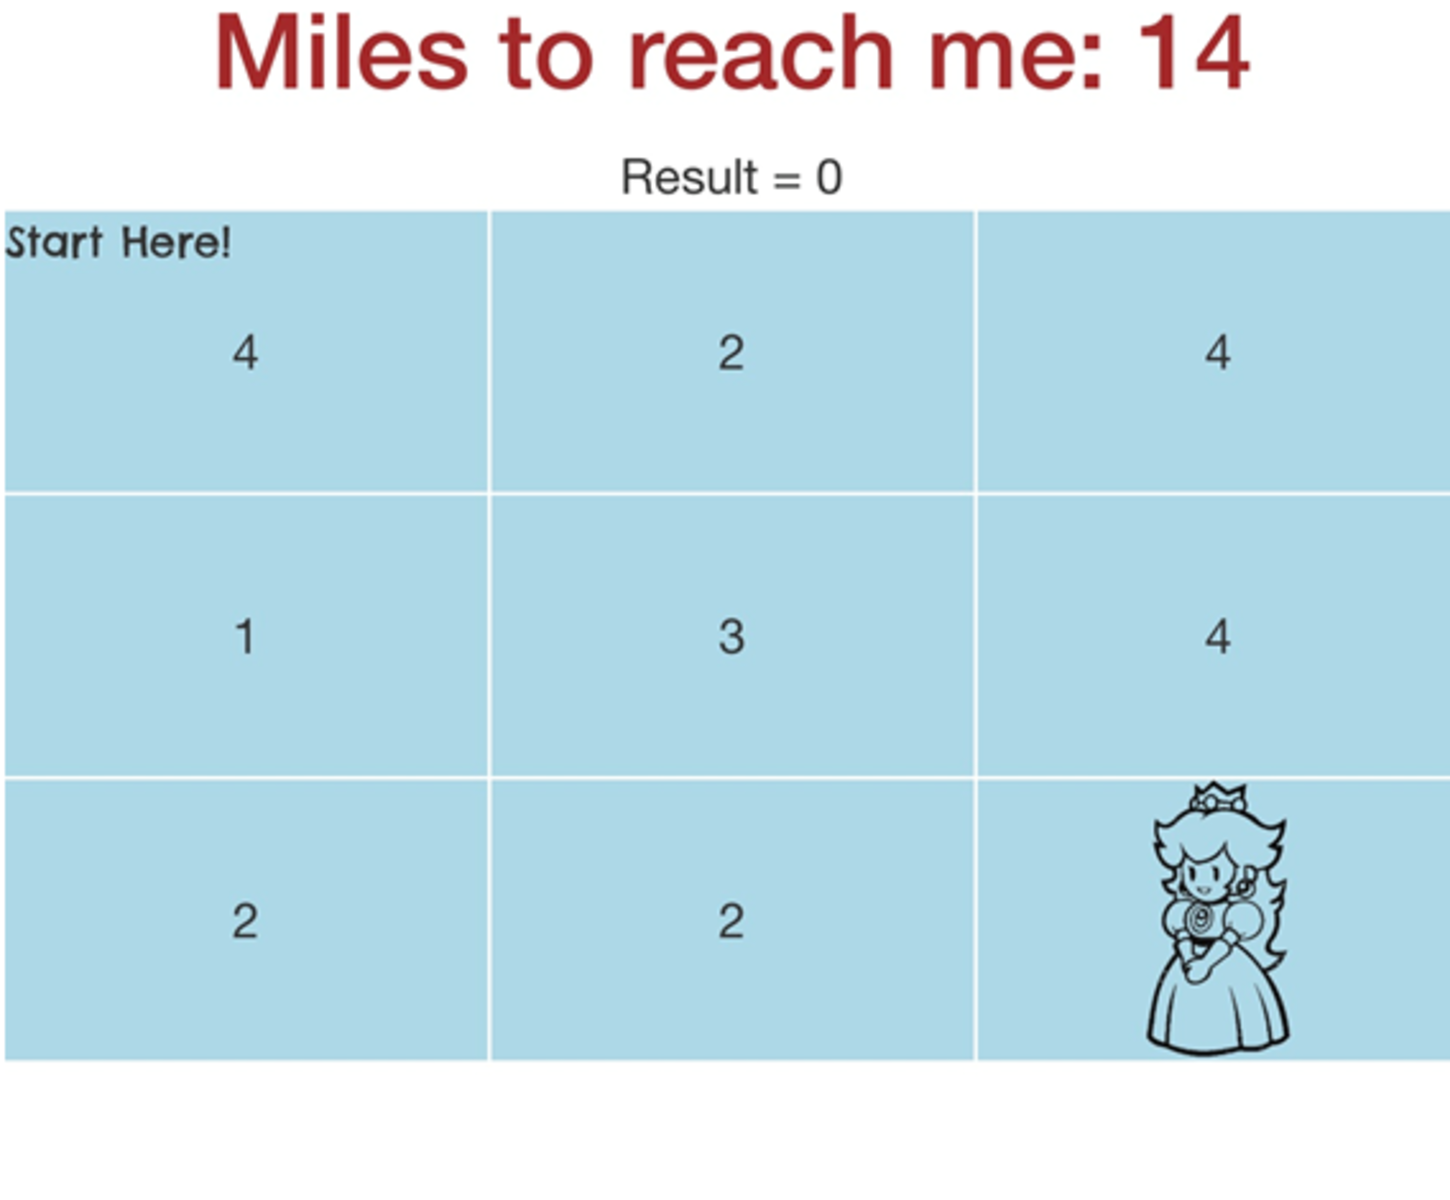
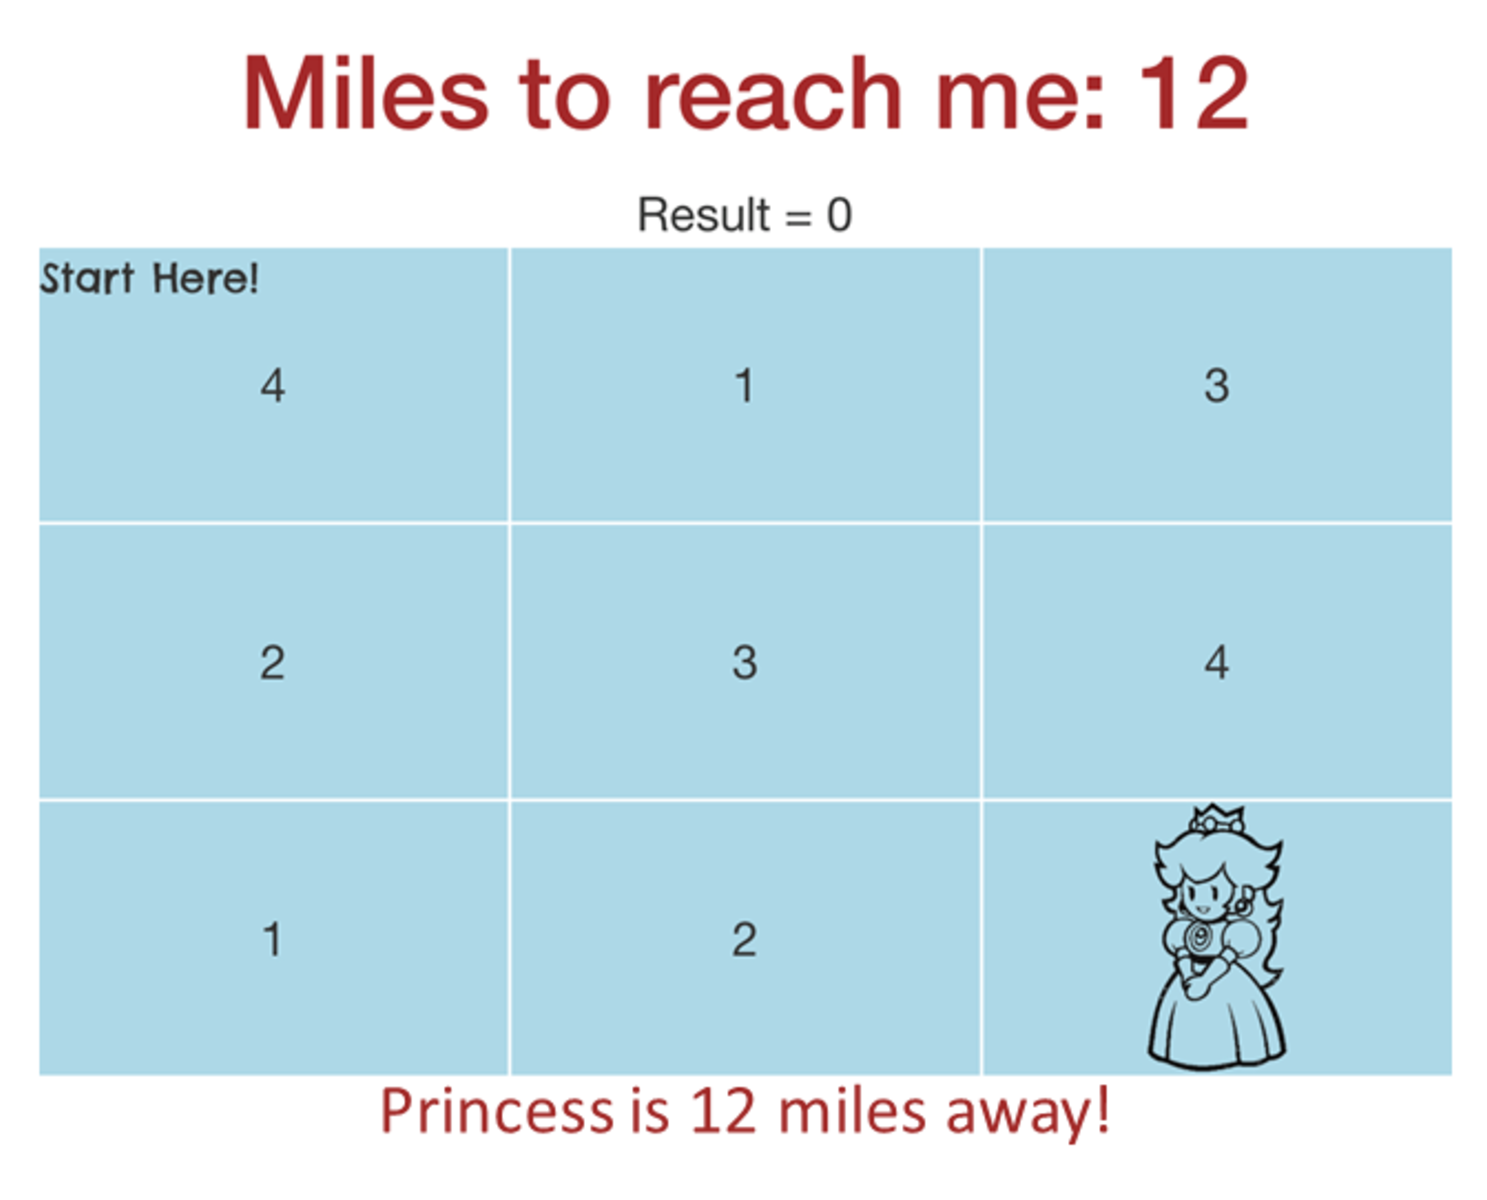
bug fix and add instructions

diff --git a/src/app/app.component.ts b/src/app/app.component.ts
@@ -185,9 +185,18 @@ export class AppComponent implements AfterViewInit {
     }
     const target = event.target || event.srcElement || event.currentTarget;
     const index = Number(target.parentElement.dataset.index);
+    const row = Math.floor((index / this.currLevelInfo.cols));
+    const col = index % this.currLevelInfo.cols;
     if ((index + 1) === this.currLevelInfo.matrix.length) {
       target.style.background = '#ce4e4e';
       if (this.result === this.currLevelInfo.solution) {
+        if (!this.isValidPathToPrincess(new Step(row, col, 0))) {
+          const ref = this.raisePopup('Sorry no jumps allowed!');
+          ref.afterClosed().subscribe(result => {
+            target.style.background = 'lightblue';
+          })
+          return;
+        }
         if (this.path.length === this.currLevelInfo.shortestPath) {
           this.gameOver(false);
         } else {
@@ -201,10 +210,10 @@ export class AppComponent implements AfterViewInit {
       }
       return;
     }
-    const row = Math.floor((index / this.currLevelInfo.cols));
-    const col = index % this.currLevelInfo.cols;
+
     const step = new Step(row, col,  index === 0 ? this.currLevelInfo.matrix[0] : Number(target.textContent));
     if (!this.validate(step)) {
+      this.raisePopup('Wrong step! Please follow the rules');
       return;
     }
     this.audio.walk.play();
@@ -219,6 +228,10 @@ export class AppComponent implements AfterViewInit {
     } else {
       target.style.background = 'lightblue';
     }
+  }
+
+  private isValidPathToPrincess(step: Step): boolean {
+    return this.validate(step);
   }
 
   private calcResult(step: Step) {
@@ -298,7 +311,6 @@ export class AppComponent implements AfterViewInit {
     if (lastStep.isValidStep(step)) {
       return true;
     }
-    this.raisePopup('Wrong step! Please follow the rules');
     return false;
   }
 

diff --git a/src/app/GameConstants.ts b/src/app/GameConstants.ts
@@ -15,7 +15,7 @@ export class GameConstants {
 
     const second = [2, 2, 4, 1, 4, 8];
     this.GameLevels.push(new LevelInfo(second, 3, 8, 2, 15));
-    const third = [4, 2, 4, 1 , 3, 4, 2, 2, 14];
+    const third = [4, 1, 3, 3 , 3, 4, 2, 3, 12];
     this.GameLevels.push(new LevelInfo(third, 3, 14, 3, 30));
     const fourth = [4, 3, 1, 4, 2, 4, 2, 4, 3, 1, 3, 32];
     this.GameLevels.push(new LevelInfo(fourth, 3, 32, 3, 30));

diff --git a/src/app/components/game-info-dialog/game-info-alert.component.ts b/src/app/components/game-info-dialog/game-info-alert.component.ts
@@ -46,6 +46,11 @@ export class GameInfoAlertComponent {
       image: 'assets/images/instruction-3.PNG',
       visible: false
     },
+    {
+      id: 4,
+      image: 'assets/images/instruction-4.PNG',
+      visible: false
+    },
   ]
   currImage = this.instructions[0];
   currIndex = -1;

diff --git a/src/app/components/game-summary-dialog/game-summary-alert.component.html b/src/app/components/game-summary-dialog/game-summary-alert.component.html
@@ -10,3 +10,9 @@
 </ul>
 <p style="color: red">Now take a screenshot and share your score!</p>
 </mat-dialog-content>
+<mat-dialog-actions align="end">
+  <button mat-raised-button
+        (click)="onClick($event)" style="color: #287b26;">
+    New Game
+  </button>
+</mat-dialog-actions>

diff --git a/src/app/components/game-summary-dialog/game-summary-alert.component.ts b/src/app/components/game-summary-dialog/game-summary-alert.component.ts
@@ -15,4 +15,8 @@ export class GameSummaryAlertComponent {
     this.dialogRef.disableClose = true;
     this.gameSummaryInfo = data.gameSummaryInfo;
   }
+
+  onClick(event) {
+    window.location.reload();
+  }
 }
